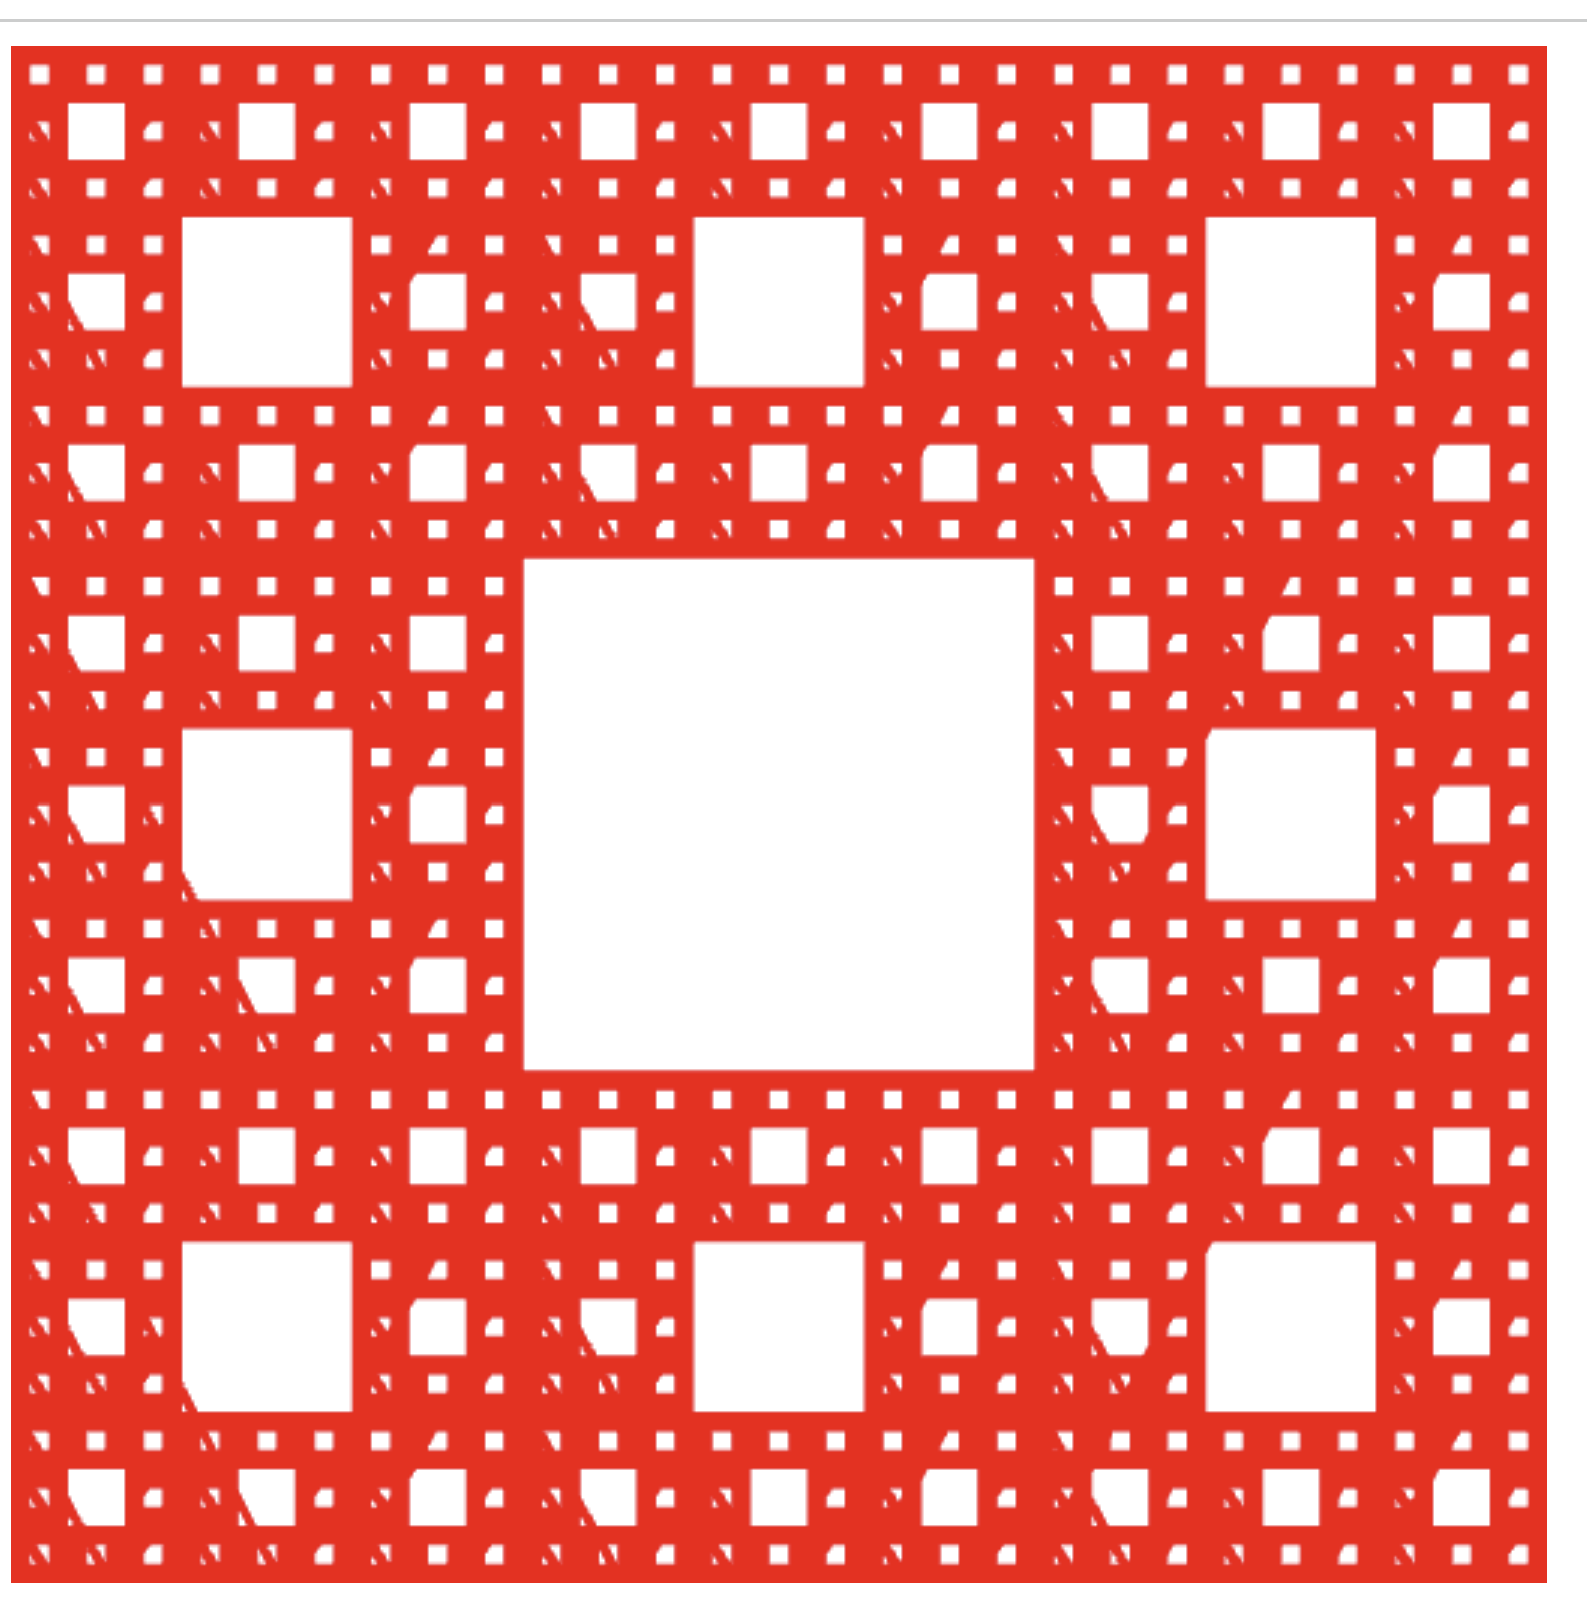
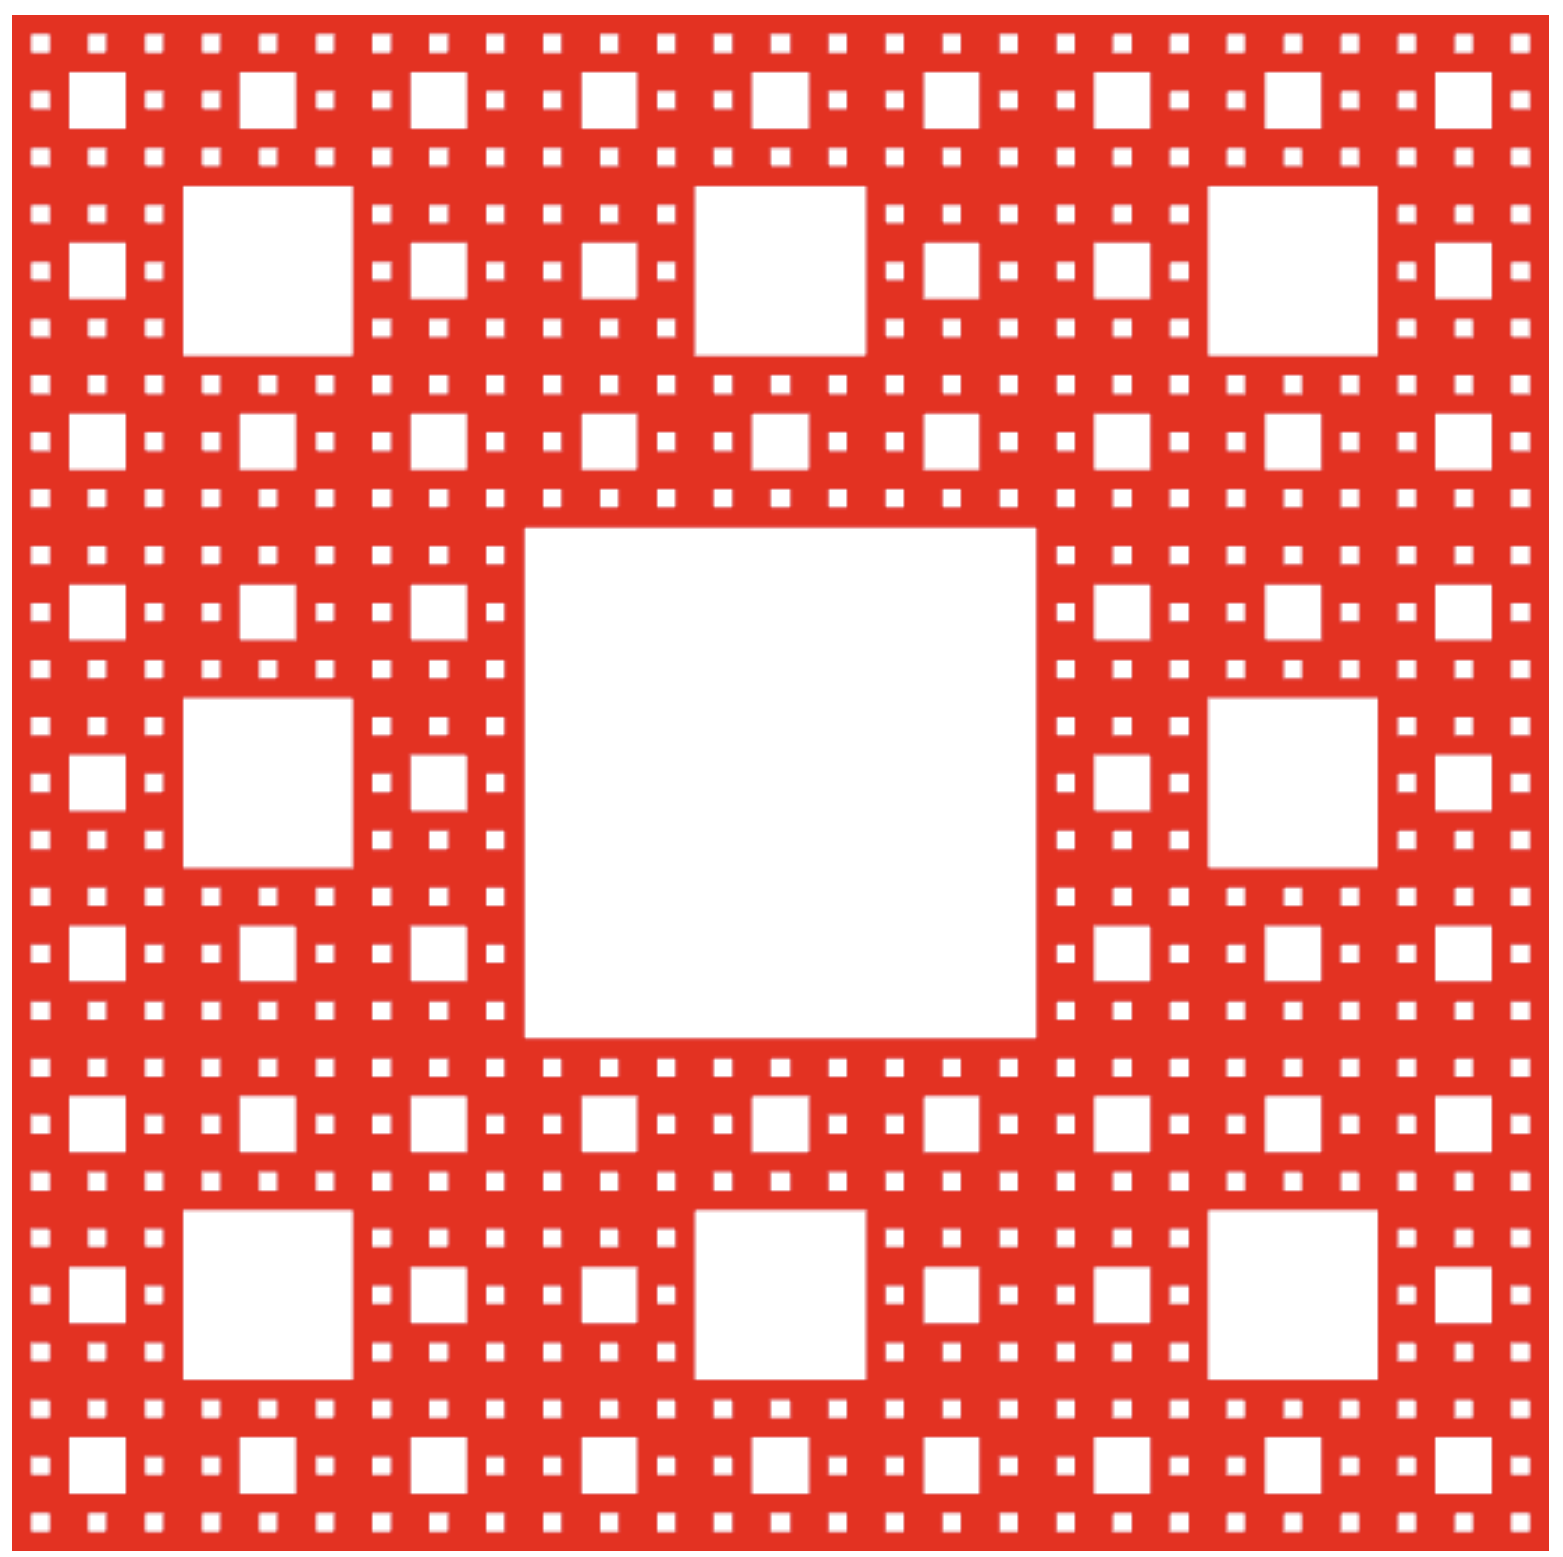
thetta er ad mestu tilbuid

diff --git a/2D Sierpinski teppi_files/gasket2.js b/2D Sierpinski teppi_files/gasket2.js
@@ -1,11 +1,12 @@
+
 "use strict";
 
 var canvas;
 var gl;
 
-var punktar = [];
+var punktarnir = [];
 
-var FjoldiSkiptinga = 4; 
+var FjoldiSkiptinganna = 4;
 
 window.onload = function init()
 {
@@ -14,20 +15,20 @@ window.onload = function init()
     gl = WebGLUtils.setupWebGL( canvas );
     if ( !gl ) { alert( "WebGL isn't available" ); }
 
-    //
-    //  Initialize our data for the Sierpinski Gasket
-    //
+    // Upphafsstillum með fjórum punktum á bilinu [-1 til 1].
 
-    // First, initialize the corners of our gasket with three points.
-
-    var hnutar = [
+    var hnutarnir = [
         vec2( -1, -1 ),
         vec2(-1, 1),
         vec2(1, -1),
         vec2(1, 1),
     ];
 
-    butumFerning(hnutar[0], hnutar[1], hnutar[2], hnutar[3], FjoldiSkiptinga);
+    butumFerninginn(hnutarnir[0], hnutarnir[1], hnutarnir[2], hnutarnir[1], hnutarnir[2], hnutarnir[3], FjoldiSkiptinganna);
+
+
+
+    //butumFerning(hnutar[0], hnutar[1], hnutar[2], hnutar[3], FjoldiSkiptinga);
 
     //
     //  Configure WebGL
@@ -44,7 +45,7 @@ window.onload = function init()
 
     var bufferId = gl.createBuffer();
     gl.bindBuffer( gl.ARRAY_BUFFER, bufferId );
-    gl.bufferData( gl.ARRAY_BUFFER, flatten(punktar), gl.STATIC_DRAW );
+    gl.bufferData( gl.ARRAY_BUFFER, flatten(punktarnir), gl.STATIC_DRAW );
 
     // Associate out shader variables with our data buffer
 
@@ -55,19 +56,22 @@ window.onload = function init()
     render();
 };
 
-// Fallið @ferningur mun hlaða ferningnum inn í punktafylkið. Punktafylkið hefur tengingu við litina.
-function ferningur (a, b, c, d) {
-punktar.push(a, b, c, d);
+
+function ferningurinn (a, b, c, b2, c2, d) {
+    punktarnir.push(a, b, c, b, c, d);
 
 }
 
-function butumFerning(a, b, c, d, skipting){
-    if (skipting === 0) {
-        ferningur(a, b, c, d);
+
+
+function butumFerninginn(a, b, c, b1, c1, d, skiptingin) {
+    if(skiptingin === 0){
+        ferningurinn(a, b, c, b, c, d);
     } else {
         //Finnum punkta fyrir 8 ferninga!
 
         //Ytri punktar
+    
         var ab = mix(a, b, 1/3);
         var ab2 = mix(a, b, 2/3);
         var bd = mix(b, d, 1/3);
@@ -83,24 +87,23 @@ function butumFerning(a, b, c, d, skipting){
         var bc = mix(b, c, 1/3);
         var bc2 = mix(b, c, 2/3);
 
-        //fækkum skiptingu um einn
-        --skipting;
+        --skiptingin;
 
-        //bútum ferninginn niður í átta ferninga!
-        butumFerning(a, ab, ac, ad, skipting);
-        butumFerning(ab, ab2, ad, bc, skipting);
-        butumFerning(ab2, b, bc, bd, skipting);
-        butumFerning(bc, bd, ad2, bd2, skipting);
-        butumFerning(ad2, bd2, cd2, d, skipting);
-        butumFerning(bc2, ad2, cd, cd2, skipting);
-        butumFerning(ac2, bc2, c, cd, skipting);
-        butumFerning(ac, ad, ac2, bc2, skipting);
-        
+         //bútum ferninginn niður í átta ferninga!
+
+         butumFerninginn(a, ab, ac, ab, ac, ad, skiptingin);
+         butumFerninginn(ab, ab2, ad, ab2, ad, bc, skiptingin);
+         butumFerninginn(ab2, b, bc, b, bc, bd, skiptingin);
+         butumFerninginn(bc, bd, ad2, bd, ad2, bd2, skiptingin);
+         butumFerninginn(ad2, bd2, cd2, bd2, cd2, d, skiptingin);
+         butumFerninginn(bc2, ad2, cd, ad2, cd, cd2, skiptingin);
+         butumFerninginn(ac2, bc2, c, bc2, c, cd, skiptingin);
+         butumFerninginn(ac, ad, ac2, ad, ac2, bc2, skiptingin);
     }
 }
 
 function render()
 {
     gl.clear( gl.COLOR_BUFFER_BIT );
-    gl.drawArrays( gl.TRIANGLE_STRIP, 0, punktar.length );
+    gl.drawArrays( gl.TRIANGLES, 0, punktarnir.length );
 }

diff --git a/heimadaemi2.html b/heimadaemi2.html
@@ -62,7 +62,7 @@
     <h3>Dæmi 5</h3>
     <p>Mynd af 5:</p>
     <img src="sierpinskicarpet.png" width="300" height="300" alt="næstum komið">
-    <p>Hér lærði ég að búa til þetta mynstur með því að nota mix fallið og að splitta ferningunum með endurkvæmni og fleiru. Auk þess notaði ég TRIANGLE_STRIP til að búa til tvo þríhyrninga sem mynda þessa ferninga.</p>
+    <p>Hér lærði ég að búa til þetta mynstur með því að nota mix fallið og að splitta ferningunum með endurkvæmni og fleiru. Auk þess notaði ég TRIANGLES fallið til að búa til tvo þríhyrninga sem mynda þessa ferninga.</p>
     <a href="2D Sierpinski teppi.html">Hér er fimm</a>
    </div>
 
